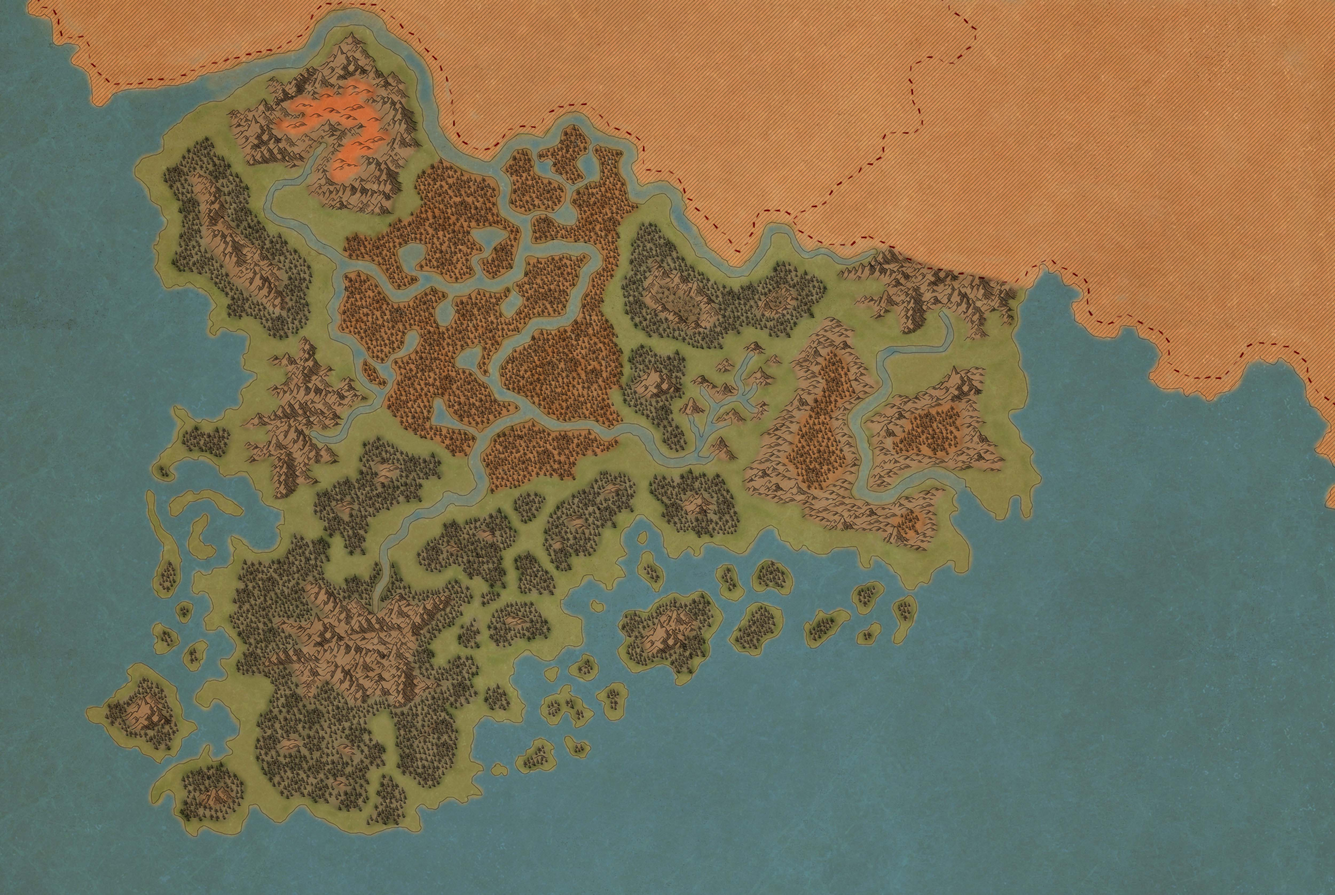
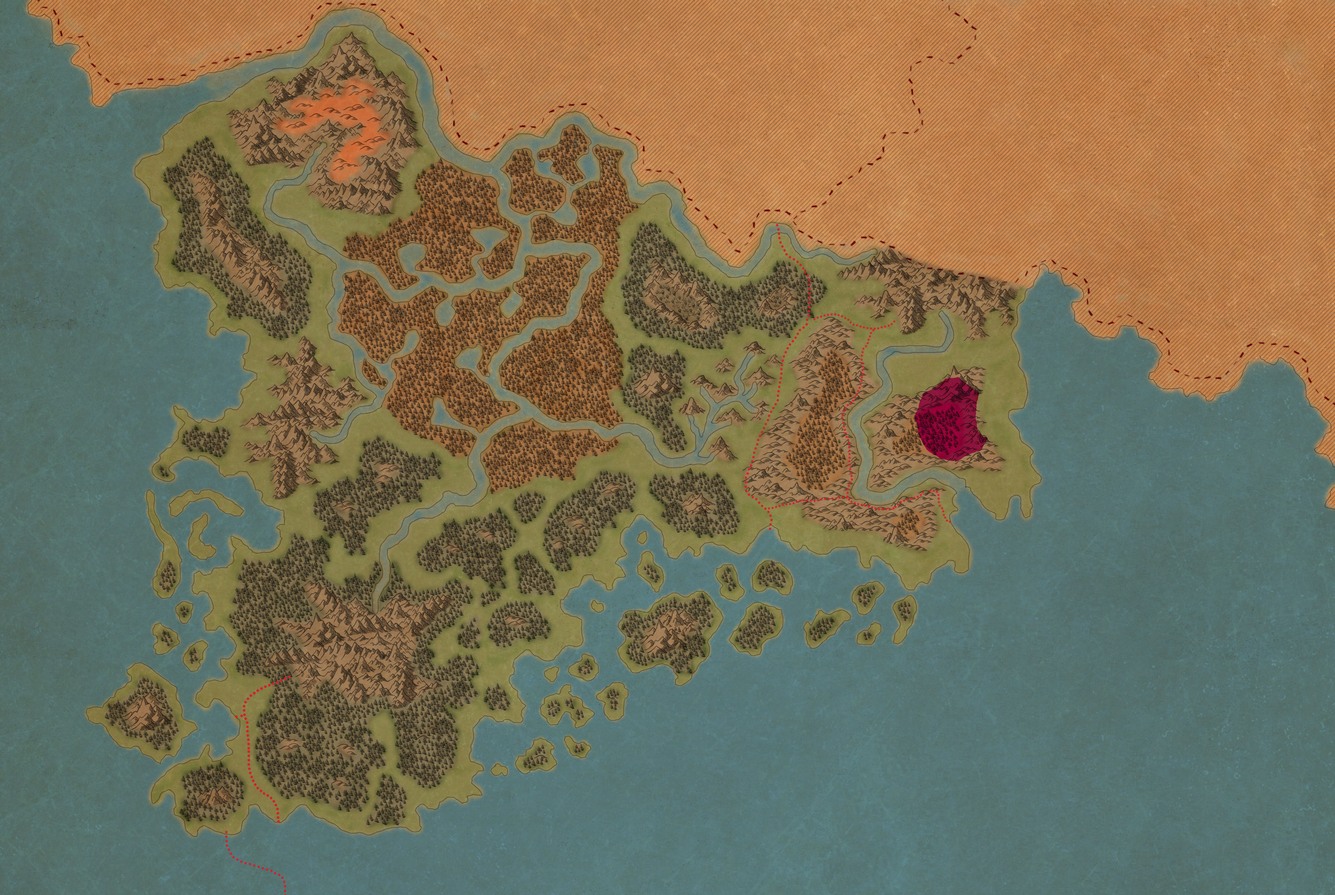
update map ; added polygon area display ;

Changed region(s): [[0.6864, 0.4032, 0.7488, 0.5273]]

diff --git a/functions/wkt2json.php b/functions/wkt2json.php
@@ -1,0 +1,140 @@
+<?php
+class WktToJson
+{
+    private $_wkt;       
+
+ 
+    public function __construct($le_wkt) // Constructeur demandant 2 paramètres
+ {
+   $this->setWkt($le_wkt); // Initialisation de la force.
+
+ }
+    
+  
+    public function setWkt($le_wkt){
+         $this->_wkt = $le_wkt;
+    }
+    
+    
+    /*Explose le WKT selon les parenthèse => Array ( 0 => type_geom_WKT, le reste => les coordonnée*/
+    private function _getExplodeWkt($wkt){
+        $patern_perentheses ="#\(|\)#";
+        return preg_split($patern_perentheses, $wkt);  
+    }
+    
+    /*Défini le type de géométrie*/
+   private function _getType(){
+       $wkt = $this->_wkt;
+        $type_geom_json ='';
+        if ( preg_match('#^POINT#', $wkt) == true){ $type_geom_json = 'Point';}
+        else if ( preg_match('#^POLYGON#', $wkt) == true){ $type_geom_json = 'Polygon';}
+        else if ( preg_match('#^LINESTRING#', $wkt) == true){ $type_geom_json = 'LineString';}
+        else if ( preg_match('#^MULTILINESTRING#', $wkt) == true){ $type_geom_json = 'MultiLineString';}
+        else if ( preg_match('#^MULTIPOINT#', $wkt) == true){ $type_geom_json = 'MultiPoint';}
+        else if ( preg_match('#^MULTIPOLYGON#', $wkt) == true){ $type_geom_json = 'MultiPolygon';}  
+     return   $type_geom_json;
+     
+    }
+    
+    
+    // c'est un mutlipolygon, on doit récupérer les polygones qui le compose
+   private function _getCoordGeojsonCaseMulipolygon(){
+        $wkt = $this->_wkt;
+        $patern_perentheses ="#\(\(|\)\)#";
+        $polygones = array();
+        $multi_poly_explode = preg_split($patern_perentheses, $wkt);
+        for ($i = 1; $i < count($multi_poly_explode); $i++) {
+            $multi_poly_explode[$i] = trim($multi_poly_explode[$i]);
+            if ($multi_poly_explode[$i] != null && $multi_poly_explode[$i] != '' && $multi_poly_explode[$i] != ',' && $multi_poly_explode[$i] != ')' && $multi_poly_explode[$i] != '('){
+                array_push($polygones, "POLYGON(".$multi_poly_explode[$i]);
+            }
+        } 
+        
+        $array_coord_json_multipoly = array();
+        for ($j = 0; $j < count($polygones); $j++) {
+            $coord_full_json = $this->_getCoordsFullGeojson($polygones[$j],'Polygon');
+            array_push($array_coord_json_multipoly, '['.$coord_full_json.']');
+        }
+        return join(",",$array_coord_json_multipoly);  
+    }
+    
+    
+    
+    /*Get les coordonnées en String. Si le count(return) == 1, c'est une simple coordonnée, sinon c'est un truc complexe, (polygon à trou par exemple)*/
+   private function _getSubGeomCoords(){
+       $wkt = $this->_wkt;
+        $wkt_explode = $this->_getExplodeWkt($wkt);
+        $array_coord = array();
+        
+        for ($i = 1; $i < count($wkt_explode); $i++) {
+            $wkt_explode[$i] = trim($wkt_explode[$i]);
+            if ($wkt_explode[$i] != null && $wkt_explode[$i] != '' && $wkt_explode[$i] != ','){
+                array_push($array_coord, $wkt_explode[$i]);
+            }
+        }  
+        return $array_coord;
+    }
+    
+    /*Renvoie les coordonées de la 'sub_geom' en format GEOJSON*/
+    private function _getCoordSubGeomGeojson($sub_geom_coord){
+        $array_couple_coord = explode(',',$sub_geom_coord);
+        // print_r($array_couple_coord);
+        $array_str_coords =array();
+        
+        for ($i = 0; $i < count($array_couple_coord); $i++) {
+            $array_couple_coord[$i] = trim($array_couple_coord[$i]);
+            $lng_lat =  explode(' ',$array_couple_coord[$i]);
+            $lng = $lng_lat[0];
+            $lat = $lng_lat[1];
+            // print_r($lng_lat);
+            $current_str_lng_lat_json = '['.-$lat.','.$lng.']';
+            array_push($array_str_coords, $current_str_lng_lat_json);
+        }
+        return join(",",$array_str_coords);
+    }
+    
+    
+    private function _getCoordsFullGeojson($wkt,$type_geom){
+        $array_sub_geom = $this->_getSubGeomCoords();
+        $array_full_geom = array();
+        
+        $crochet_ouvert = '';
+        $crochet_ferme ='';
+        if ($type_geom == 'Polygon' || $type_geom == 'MultiLineString' )
+        { $crochet_ouvert = '[';$crochet_ferme =']';}
+        
+        for ($i = 0; $i < count($array_sub_geom); $i++) {
+            $current_str_sub_geom = $this->_getCoordSubGeomGeojson($array_sub_geom[$i]);
+            
+            array_push($array_full_geom, $crochet_ouvert.$current_str_sub_geom.$crochet_ferme);
+        }
+        return  join(",",$array_full_geom);
+    }
+    
+    public function getGeometryGeojsonFromWkt (){  
+        $wkt = $this->_wkt;
+       //print_r($this->_getType($wkt));
+        
+        $wkt = trim ($wkt);
+        $type_geom = $this->_getType();
+        $coord_full_json ='';
+        if($type_geom == 'MultiPolygon'){
+            $coord_full_json = $this->_getCoordGeojsonCaseMulipolygon();
+        }
+        else{
+            $coord_full_json = $this->_getCoordsFullGeojson($wkt,$type_geom);
+        }
+        
+        
+        //$str_geometry_geojson = '{"type":"'.$type_geom.'","coordinates":['.$coord_full_json.']}';
+        $str_geometry_geojson = $coord_full_json;
+       //print_r($str_geometry_geojson);
+        return $str_geometry_geojson;
+    }
+   
+    
+    
+}
+
+
+?>

diff --git a/views/map.php b/views/map.php
@@ -1,5 +1,6 @@
 <?php
 //view
+
 include("./functions/toolbox.php");
 include("./views/include/header.php");
 include("./views/include/button.php");
@@ -34,6 +35,21 @@ include("./views/include/button.php");
 					http://tiny.cc/20rcky
 				</p>
 				<p>Aquilon, cartographie par Hamil Sambre <br/>aka KaentinWede, dessin par Asaric - 2017</p>
+				<p><?php
+				$sqlresponse = getAreas();
+				while ($dataArea = $sqlresponse->fetch())
+				{
+					echo $dataArea['id'];
+					echo $dataArea['name'];
+					echo $dataArea['colorHexa'];
+					echo wkt_to_json($dataArea['polygonwkt']);
+					//echo join(',', array_keys($dataArea));
+					//echo join(',', $dataArea);
+				}
+				//printArea();
+				
+				
+			?></p>
 			</div>
 		</nav>
 		<div id="mapid"></div>
@@ -53,10 +69,11 @@ include("./views/include/button.php");
 			map.fitBounds(mapBounds(5000*mult,5833*mult,[-3970,-700]));
 
 			<?php
-			$classes =["lieu","ruines","limite","biome","emplacement","fleuve","route"];
+			$classes =["lieu","ruines","limite","biome","emplacement","fleuve","route","area"];
 			foreach ($classes as $value){
 				printMarker($value);
 			}
+			printArea();
 			?>
 			var overlays = {
 				"Lieux": lieuX,
@@ -65,17 +82,20 @@ include("./views/include/button.php");
 				"Nature": biomeX,
 				"Emplacements":emplacementX,
 				"Fleuves":fleuveX,
-				"Route":routeX
+				"Route":routeX,
+				"Zone":areaX
 			};
 			L.control.layers(null,overlays).addTo(map);			
 			<?php
-			foreach ($classes  as $value){
+			foreach ($classes as $value){
 				echo $value."X.addTo(map);";
 			}
 			?>
 			emplacementX.addTo(map);
 			var pointer = L.marker([0,0],{icon: pointer}).addTo(map);
- 
+
+			
+
 			//L.control.map.setView([0, 0], -1);
 					
 		</script>

diff --git a/functions/toolbox.php b/functions/toolbox.php
@@ -75,4 +75,52 @@ deleteButton($datamarker,"map");
 ?>'),
 <?php
 }
+function printArea()
+{
+	?>
+	var areaX = L.layerGroup([
+	<?php
+	$sqlresponse = getAreas();
+	$number = count($sqlresponse);
+	$i = 1;
+
+	while ($dataArea = $sqlresponse->fetch())
+	{
+		/*if($dataArea['isPrivate']==FALSE)
+		{
+			writeArea($dataArea);
+		}
+		else if(($dataArea['isPrivate']==TRUE) && !empty($_SESSION['userName']))
+		{
+			if($_SESSION['rightsLevel']>=0)
+			{
+				writeArea($dataArea);
+			}
+		}*/
+		writeArea($dataArea);
+		if ($i < $number)
+		{
+			echo ',';
+		}
+		$i ++;
+	}
+	?>
+	]);
+	<?php
+}
+function writeArea($dataarea)
+{
+?>	
+L.polygon
+(
+	<?php echo wkt_to_json($dataarea['polygonwkt']) ;?>
+	,
+{
+	color: '#<?php echo $dataarea['colorHexa'];?>',
+	fillColor: '#<?php echo $dataarea['colorHexa'];?>',
+	fillOpacity: 0.08
+}
+).bindPopup('<?php echo $dataarea['name']; ?>')
+<?php
+}
 ?>

diff --git a/controlers/map.php b/controlers/map.php
@@ -13,7 +13,11 @@
 	{
 		$backofficeAcces = "Backoffice";
 	}
-	
+	include('./functions/wkt2json.php');
+	function wkt_to_json($wkt) {
+		$geom = new WktToJson($wkt);
+		return $geom->getGeometryGeojsonFromWkt();
+	}
 	include("./controlers/msgmanager.php");	
     include("./views/map.php");
 ?>

diff --git a/models/model.php b/models/model.php
@@ -58,4 +58,10 @@
 		'y' => $y
 		));
 	}
+	function getAreas()
+	{
+		$bdd = connexion_database();
+		$reponse = $bdd->query('SELECT `id`,`name`,`colorHexa`,AsText(`polygon`) as polygonwkt,`isPrivate`  FROM `cartearea` ');
+		return $reponse;
+	}
 ?>

diff --git a/functions/database_connexion.php b/functions/database_connexion.php
@@ -5,7 +5,7 @@
 		$bdd = new PDO(
 		'mysql:host=localhost;dbname=carteaquilon',
 		'root',
-		'',
+		'root',
 		array(PDO::MYSQL_ATTR_INIT_COMMAND => 'SET NAMES utf8')
 		);
     } catch (Exception $e) {
